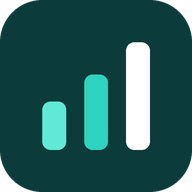
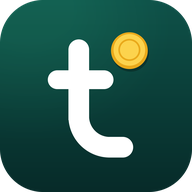
Ícone novo com a marca Tino (v38)

diff --git a/app.js b/app.js
@@ -21,7 +21,7 @@ const CONFIG = {
 };
 
 // Versão do código. Ao publicar: aumente aqui, em versao.json e o CACHE do sw.js.
-const APP_VERSAO = 37;
+const APP_VERSAO = 38;
 const STORE_KEY = 'orgfin:v1';
 // Dados de contas que saíram ficam guardados em 'orgfin:conta:<e-mail ou código>' e voltam ao entrar de novo.
 const CONTA_KEY = (id) => 'orgfin:conta:' + (id || '_sem');

diff --git a/sw.js b/sw.js
@@ -1,6 +1,6 @@
 // Service worker: deixa o app funcionando offline.
 // Sempre que publicar uma nova versão, aumente o número abaixo.
-const CACHE = 'financas-v37';
+const CACHE = 'financas-v38';
 const ARQUIVOS = [
   './',
   './index.html',
